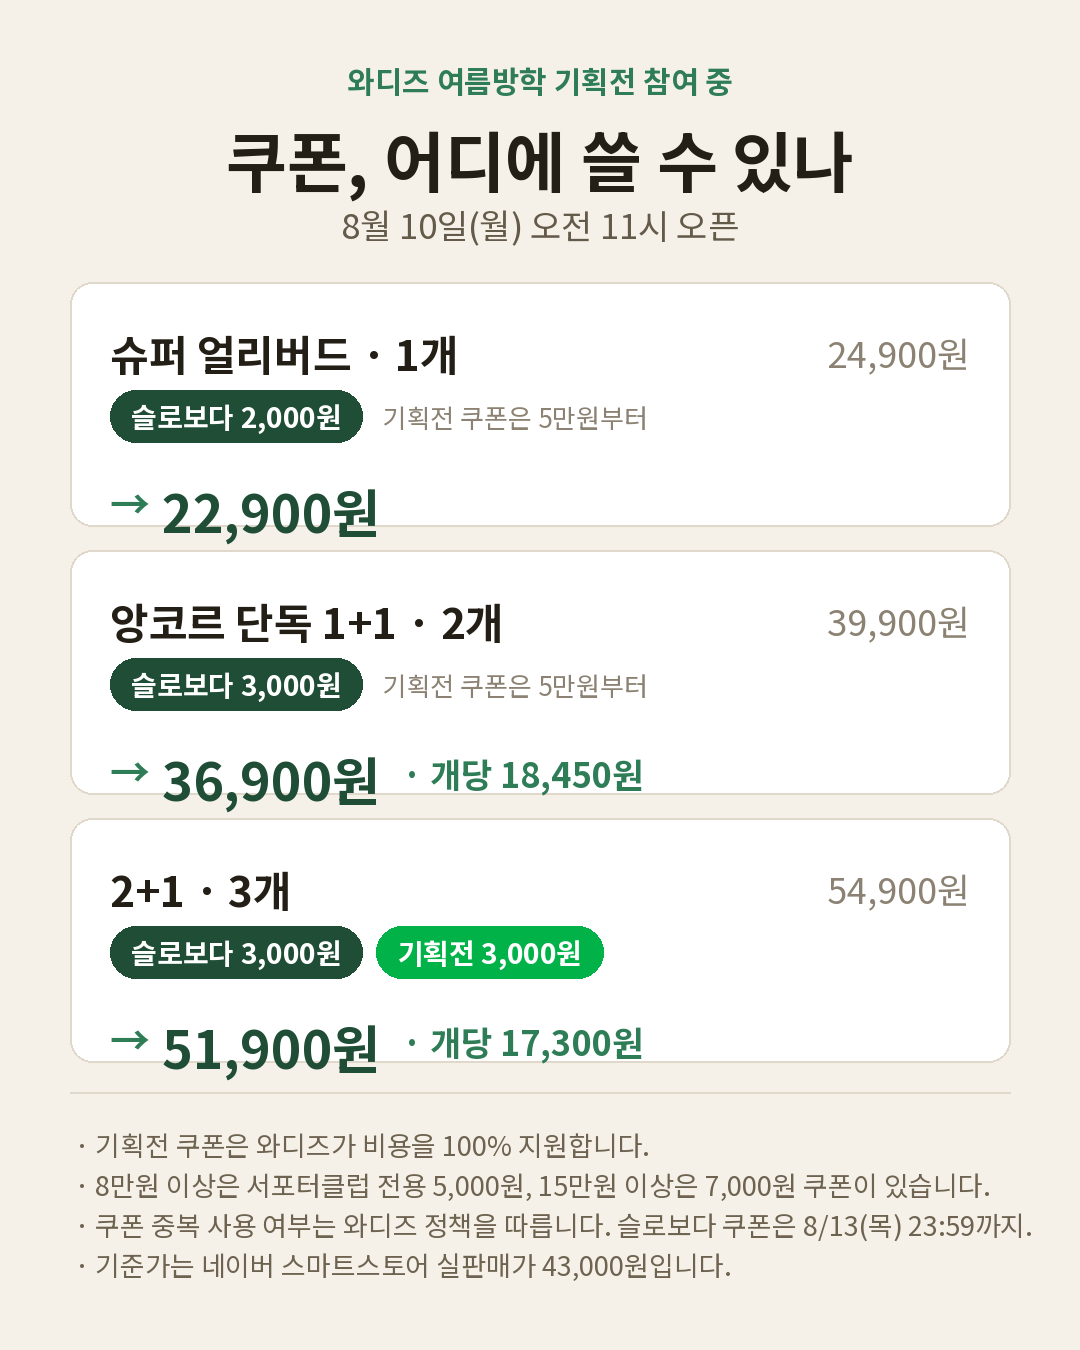
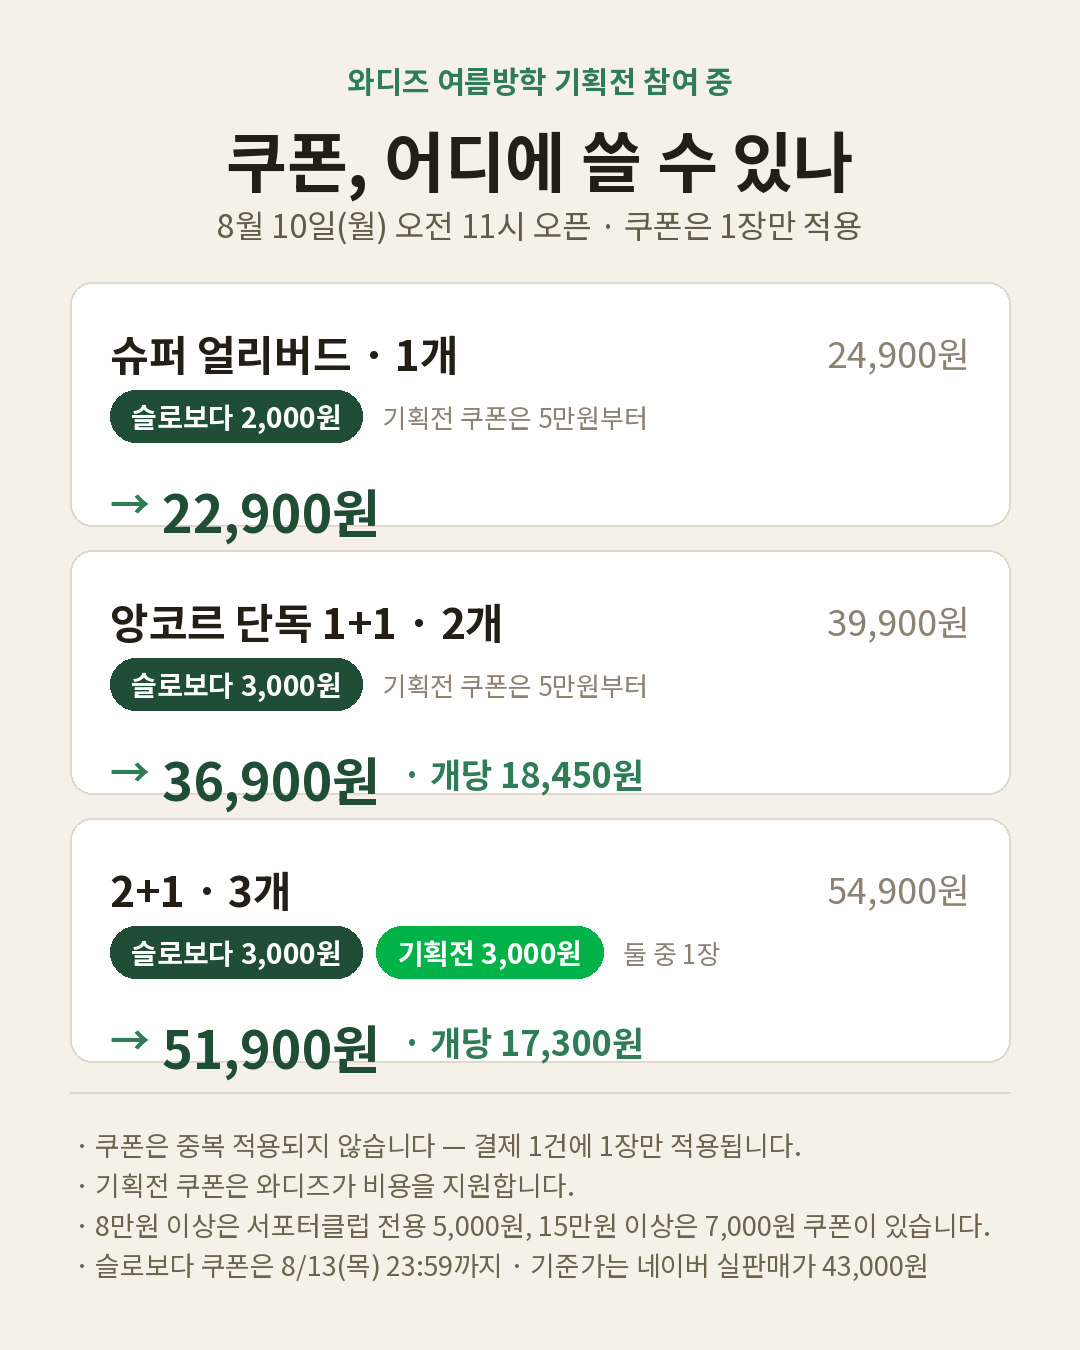
쿠폰 중복 불가 확인 반영 — 유보 표현을 단정형으로, 대조표 카드 갱신
와디즈 문의 회신(2026-08-05): 쿠폰 중복 적용 불가, 결제 1건당 1장.
합산 조합별 최종가·개당가 검산표 추가(문의 대응용).

Claude-Session: https://claude.ai/code/session_01J5ieVxSBsRSkBUb2ZYp1Pu

Changed region(s): [[0.0917, 0.84, 0.9472, 0.9644], [0.1833, 0.1556, 0.7944, 0.1867], [0.5806, 0.6844, 0.6722, 0.7156]]

diff --git a/새소식_2호_기획전쿠폰정리.md b/새소식_2호_기획전쿠폰정리.md
@@ -63,18 +63,18 @@
 1+1은 저희가 준비한 3,000원 쿠폰이 붙는 구성입니다.
 
 
-▨ 2+1을 고르셨다면, 기획전 쿠폰을 먼저 써 주세요
+▨ 2+1을 고르셨다면, 기획전 쿠폰을 써 주세요
 
-2+1(54,900원)은 두 쿠폰 모두 조건을 충족합니다.
-차감 금액이 3,000원으로 같다면, 와디즈가 지원하는 기획전 쿠폰을 먼저 써 주세요.
+2+1(54,900원)은 두 쿠폰 모두 조건을 충족하지만, 쿠폰은 1장만 적용됩니다.
+차감 금액이 3,000원으로 같으니, 와디즈가 지원하는 기획전 쿠폰을 써 주세요.
 저희 쿠폰은 30장·20장으로 수량이 정해져 있어서,
 그만큼 다음 분께 돌아갑니다.
 
 
 ▨ 몇 가지 안내
 
-· 조건을 충족한 쿠폰이 여러 장 보여도 결제 1건에 1장만 적용될 수 있습니다.
-  중복 적용 여부는 저희가 정하는 부분이 아니라, 최종 금액은 결제 화면에서 확인해 주세요.
+· 쿠폰은 중복 적용되지 않습니다. 조건을 충족한 쿠폰이 여러 장 보여도
+  결제 1건에 1장만 적용됩니다. (와디즈 확인 완료)
 · 기획전 쿠폰의 발급 방법과 기간은 와디즈 여름방학 기획전 안내를 따릅니다.
 · 저희 쿠폰은 8월 13일(목) 23:59에 끝납니다. 마감일인 8월 31일에는 이미 지난 뒤입니다.
 · 쿠폰 받는 위치는 오픈 당일 새소식에서 화면과 함께 다시 안내드리겠습니다.
@@ -109,7 +109,7 @@
 - [ ] 본문 `[기입: 캡처 일자]` — 네이버 가격 캡처 실제 일자
 
 **와디즈에 확인할 것**
-- [ ] 기획전 쿠폰과 메이커 쿠폰 **중복 적용 가능 여부** (가능하면 2+1이 48,900원·개당 16,300원 → 본문 수정)
+- [x] ~~쿠폰 중복 적용 가능 여부~~ → **불가 확인 완료(2026-08-05).** 결제 1건에 1장만 적용. 본문·카드 반영 완료
 - [ ] 쿠폰 조건 금액이 **배송비 포함인지 리워드 금액 기준인지**
 - [ ] 서로 다른 리워드 **합산 결제** 가능 여부
 - [ ] 기획전 쿠폰이 티저 종료(8/2) 이후에도 **기간 내내 유효한지**
@@ -133,8 +133,20 @@
 | 1+1 | 39,900 | ✅ | ✅ | ❌ | ❌ | ❌ |
 | 2+1 | 54,900 | ✅ | ✅ | ✅ | ❌ | ❌ |
 
-합산 조합 (본문 미게재 · 문의 대응용)
-- 1+1 ×2 = 79,800원 / 2+1 + 1개 = 79,800원 → **8만원에 200원 부족**
-- 2+1 + 1+1 = 94,800원 → 8만원 충족 (서포터클럽 5,000원)
-- 2+1 ×2 + 1+1 = 149,700원 → **15만원에 300원 부족**
-- 2+1 ×3 = 164,700원 → 15만원 충족 (7,000원)
+합산 조합 (본문 미게재 · 문의 대응용) — **쿠폰 1장만 적용 기준**
+
+| 조합 | 결제액 | 개수 | 최대 쿠폰 | 최종가 | 개당 |
+|---|---|---|---|---|---|
+| 1+1 ×2 / 2+1 + 1개 | 79,800 | 4 / 4 | 3,000 | 76,800 | 19,200 |
+| 2+1 + 1+1 | 94,800 | 5 | 5,000* | 89,800 | 17,960 |
+| 2+1 ×2 | 109,800 | 6 | 5,000* | 104,800 | **17,467** |
+| 2+1 ×2 + 1+1 | 149,700 | 8 | 5,000* | 144,700 | 18,088 |
+| 2+1 ×3 | 164,700 | 9 | 7,000 | 157,700 | 17,522 |
+
+\* 서포터클럽 회원만. 비회원은 3,000원 적용.
+
+**아깝게 미달하는 지점** — 79,800원(8만원에 200원 부족), 149,700원(15만원에 300원 부족).
+우리 가격 끝자리가 전부 9,900원이라 생기는 현상. 문의 오면 "한 세트 더" 권유 대신 사실만 안내할 것.
+
+**최저 개당가는 2+1 ×2(서포터클럽 5,000원 적용 시 17,467원)** — 15만원 넘겨 7,000원 쿠폰을 쓰는 것보다 오히려 낮음.
+조건 맞추려 더 담게 유도하지 않는다(브랜드 원칙).
